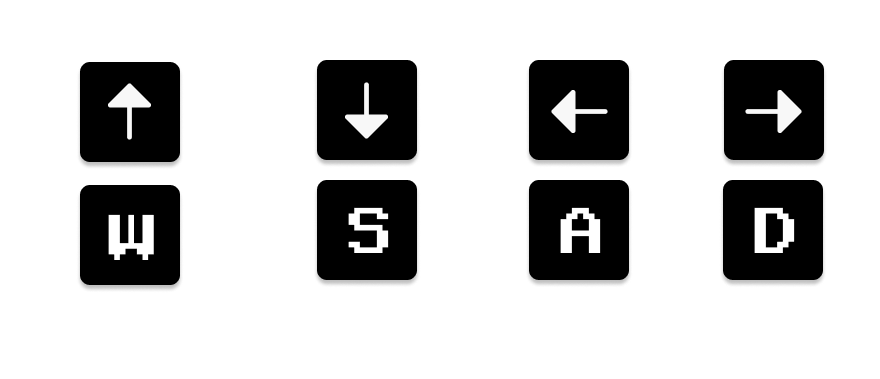
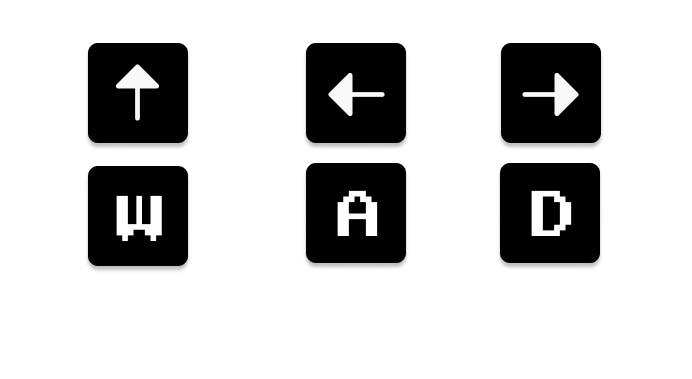
Slide rausgenommen, Hindernisse Images hinzugefügt

diff --git a/public/js/sprites/Player.js b/public/js/sprites/Player.js
@@ -35,12 +35,7 @@ class Player extends Phaser.Physics.Arcade.Sprite {
             repeat: -1
         });
 
-        this.anims.create({
-            key: 'slide',
-            frames: this.anims.generateFrameNumbers(player, {start: 9, end: 9}),
-            frameRate: 10,
-            repeat: -1
-        });
+
     }
 
     increaseSpeed(multiplier){
@@ -54,7 +49,7 @@ class Player extends Phaser.Physics.Arcade.Sprite {
         });
     }
 
-    movePlayer(cursors, keyboard, moveSpeed, jumpSpeed, slideSpeed){
+    movePlayer(cursors, keyboard, moveSpeed, jumpSpeed){
         //finalMoveSpeed initialisieren
         let finalMoveSpeed = moveSpeed;
         //Pruefen, ob Spieler geboostet wird
@@ -66,19 +61,17 @@ class Player extends Phaser.Physics.Arcade.Sprite {
         const keys = {
             left: cursors.left,
             right: cursors.right,
-            up: cursors.up,
-            down: cursors.down
+            up: cursors.up
         };
 
         const wasd = {
             leftA: keyboard.addKey(Phaser.Input.Keyboard.KeyCodes.A),
             rightD: keyboard.addKey(Phaser.Input.Keyboard.KeyCodes.D),
             upW: keyboard.addKey(Phaser.Input.Keyboard.KeyCodes.W),
-            downS: keyboard.addKey(Phaser.Input.Keyboard.KeyCodes.S)
         };
 
-        const { left, right, up, down } = keys;
-        const { leftA, rightD, upW, downS } = wasd;
+        const { left, right, up } = keys;
+        const { leftA, rightD, upW } = wasd;
 
         //if-Abfrage fuer Links-, Rechts-Bewegung
         if (left.isDown || leftA.isDown) {
@@ -97,10 +90,6 @@ class Player extends Phaser.Physics.Arcade.Sprite {
             this.setVelocityY(-jumpSpeed);
         }
 
-        //if-Abfrage fuer Slide-Bewegung
-        if((down.isDown || downS.isDown) && this.body.touching.down){
-            this.setVelocityY(finalMoveSpeed);
-            this.setVelocityX(moveSpeed);
-        }
+
     }
 }

diff --git a/public/js/scenes/GameScene.js b/public/js/scenes/GameScene.js
@@ -129,10 +129,10 @@ class GameScene extends Phaser.Scene{
         const keyboard = this.input.keyboard;
         const moveSpeed = 210;
         const jumpSpeed = 330;
-        const slideSpeed = 100;
+
 
         //Spielerbewegungsmethode aufrufen
-        this.player.movePlayer(cursors, keyboard, moveSpeed, jumpSpeed, slideSpeed);
+        this.player.movePlayer(cursors, keyboard, moveSpeed, jumpSpeed);
 
         //Kamerabewegung entsprechend der Spielerbewegung anpassen
         this.cameras.main.scrollX = this.player.x - this.cameras.main.width * 0.5;

diff --git a/public/js/scenes/Modal.js b/public/js/scenes/Modal.js
@@ -15,7 +15,7 @@ class Modal extends Phaser.GameObjects.Container {
         //Hintergrund des Modalfensters zeichnen
         this.modalBackground = this.scene.add.graphics();
         this.modalBackground.fillStyle(0x000000, 0.7);
-        this.modalBackground.fillRect(0, 0, this.scene.sys.game.config.width, this.scene.sys.game.config.height);
+        this.modalBackground.fillRect(-10, -10, this.scene.sys.game.config.width, this.scene.sys.game.config.height);
         this.modalBackground.setInteractive();
 
         //Modal-Fenster